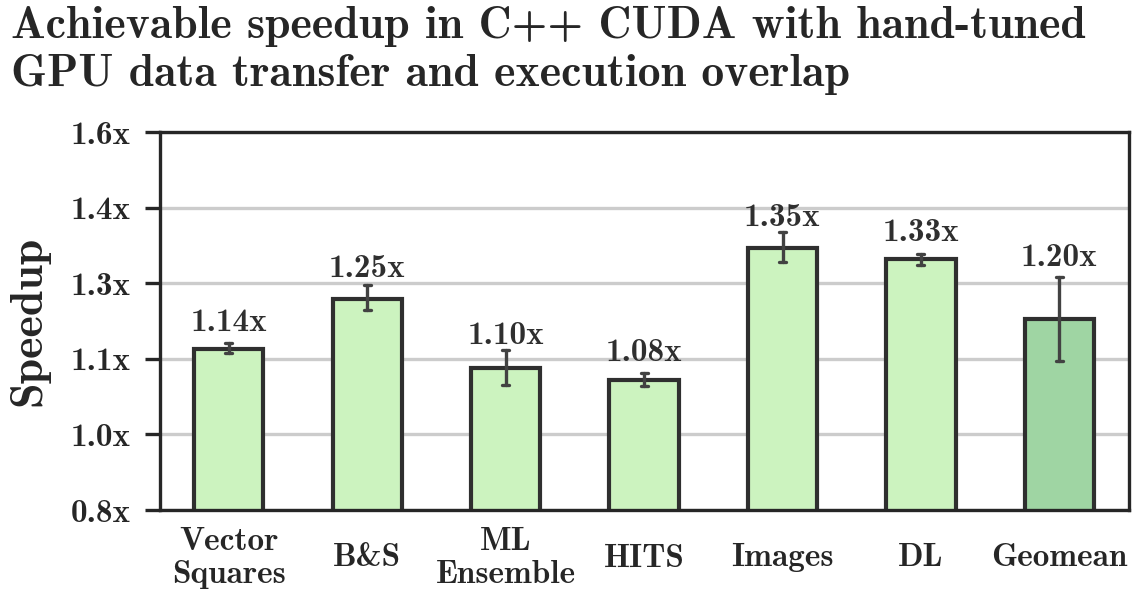
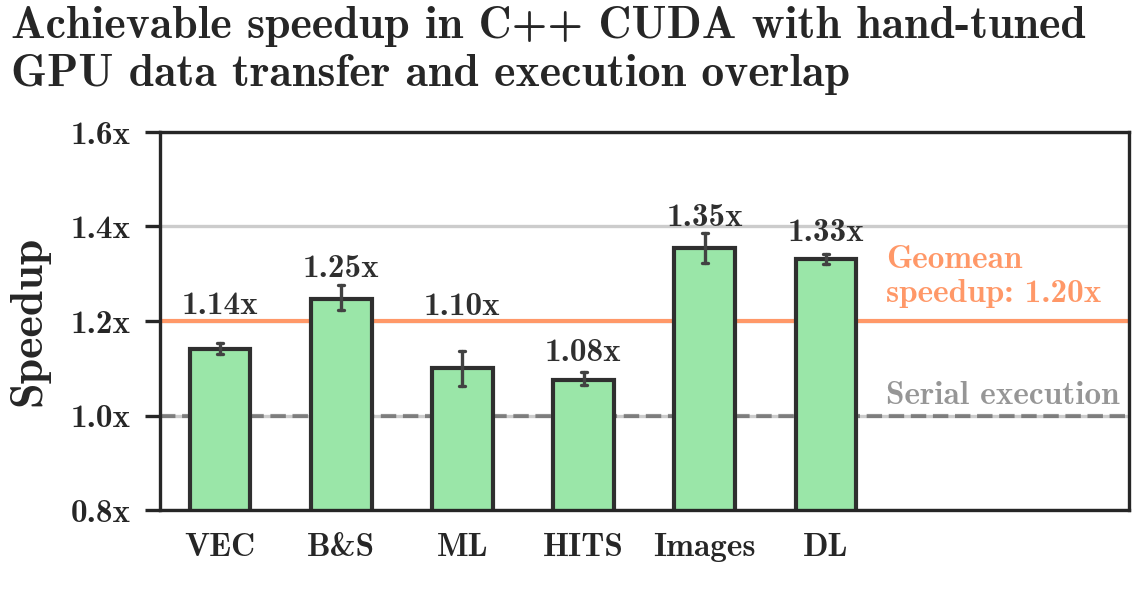
updated first plot

Changed region(s): [[0.0614, 0.33, 0.9825, 0.99], [0.8596, 0.9, 1.0, 0.96], [0.7675, 0.9, 0.8289, 0.96]]

diff --git a/projects/resources/python/plotting/plot_speedup_grcuda_cuda.py b/projects/resources/python/plotting/plot_speedup_grcuda_cuda.py
@@ -530,7 +530,7 @@ if __name__ == "__main__":
     
     #%% Summary plot with CUDA speedups;
    
-    BENCHMARK_NAMES = {"mean": "Geomean", "b1": "Vector\nSquares", "b5": "B&S", "b6": "ML\nEnsemble", "b7": "HITS", "b8": "Images", "b10": "DL"}
+    BENCHMARK_NAMES = {"mean": "", "mean2": "", "b1": "VEC", "b5": "B&S", "b6": "ML", "b7": "HITS", "b8": "Images", "b10": "DL"}
 
     sns.set_style("white", {"ytick.left": True})
     plt.rcParams["font.family"] = ["Latin Modern Roman Demi"]
@@ -538,7 +538,7 @@ if __name__ == "__main__":
     plt.rcParams['axes.labelpad'] = 5 
     plt.rcParams['axes.titlesize'] = 22 
     plt.rcParams['axes.labelsize'] = 14 
-    plt.rcParams['xtick.major.pad'] = 8
+    plt.rcParams['xtick.major.pad'] = 2
     
     
     data_cuda_2 = remove_outliers_df_grouped(data_cuda, column="computation_speedup", group=["benchmark", "exec_policy", "block_size_str", "size"])
@@ -555,29 +555,44 @@ if __name__ == "__main__":
                     hspace=0.9,
                     wspace=0.05)
     
-    palettes = ["#C8FCB6"] * len(cuda_summary["benchmark"].unique()) + ["#96DE9B"]
+    palettes = ["#9AE6A8"] * len(cuda_summary["benchmark"].unique()) + ["#96DE9B"]
     
     # Add geomean;
     gmean_res = pd.DataFrame(cuda_summary.groupby(["benchmark"], as_index=False).agg(gmean))
     gmean_res["benchmark"] = "mean"
+    gmean_horizontal_value = gmean(gmean_res["computation_speedup"])
+    gmean_res["computation_speedup"] = 0
     res = pd.concat([cuda_summary, gmean_res])
+    
+    # Do it again, workaround to have another fake column;
+    gmean_res = pd.DataFrame(cuda_summary.groupby(["benchmark"], as_index=False).agg(gmean))
+    gmean_res["benchmark"] = "mean2"
+    gmean_horizontal_value = gmean(gmean_res["computation_speedup"])
+    gmean_res["computation_speedup"] = 0
+    res = pd.concat([res, gmean_res])
+
     
     ax = fig.add_subplot(gs[0, 0])
     ax0 = ax
     
-    ax = sns.barplot(x="benchmark", y="computation_speedup", data=res, palette=palettes, capsize=.05, errwidth=0.8, ax=ax, edgecolor="#2f2f2f", estimator=gmean)
-       
+    ax = sns.barplot(x="benchmark", y="computation_speedup", data=res, palette=palettes, capsize=.05, errwidth=0.8, ax=ax, edgecolor="#2f2f2f", estimator=gmean, zorder=2, saturation=1)
+    
+    ax.axhline(y=float(f"{gmean_horizontal_value:.2}"), color=COLORS["peach1"], linestyle="-", zorder=1, linewidth=1, alpha=1)
+    ax.annotate(f"Geomean\nspeedup: {gmean_horizontal_value:.2f}x", xy=(0.75, 0.55), xycoords="axes fraction", ha="left", color=COLORS["peach1"], fontsize=8)   
+    ax.axhline(y=1, color="#2f2f2f", linestyle="--", zorder=1, linewidth=1, alpha=0.5)
+    ax.annotate(f"Serial execution", xy=(0.75, 0.28), xycoords="axes fraction", ha="left", color="#2f2f2f", fontsize=8, alpha=0.5)   
+    
     ax.set_ylabel("Speedup", fontsize=11)
     ax.set_xlabel("")
     ax.set_ylim((0.8, 1.6))
     labels = ax.get_xticklabels()
     for j, l in enumerate(labels):
         l.set_text(BENCHMARK_NAMES[l._text])
-    ax.set_xticklabels(labels, ha="center", va="center")
+    ax.set_xticklabels(labels, ha="center", va="top")
     ax.tick_params(axis='x', which='major', labelsize=8, rotation=0)
     
     ax.yaxis.set_major_formatter(ticker.StrMethodFormatter("{x:.1f}x"))
-    ax.yaxis.set_major_locator(plt.LinearLocator(6))
+    ax.yaxis.set_major_locator(plt.LinearLocator(5))
     ax.tick_params(axis='y', which='major', labelsize=8)
     ax.grid(True, axis="y")
     
@@ -589,6 +604,8 @@ if __name__ == "__main__":
         offsets += [get_upper_ci_size(res.loc[res["benchmark"] == b, "computation_speedup"], ci=0.6)]
     offsets = [o + 0.02 if not np.isnan(o) else 0.2 for o in offsets]
     # offsets[1] = 0.12
+    offsets[0] = 0.06
+    offsets[2] = 0.1
     offsets[-1] = 0.1
     add_labels(ax, vertical_offsets=offsets, rotation=0, fontsize=8, skip_zero=False)
     
